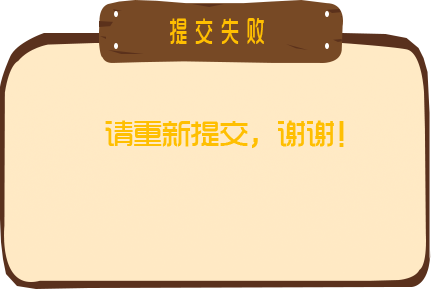
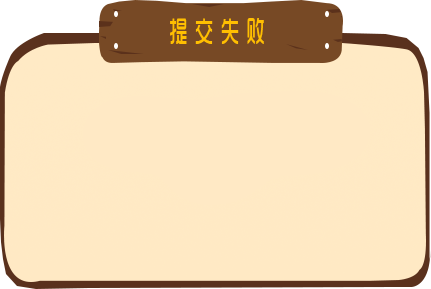
modify the synfx active.html by peng

Changed region(s): [[0.2413, 0.4048, 0.6032, 0.5294], [0.6334, 0.4048, 0.8144, 0.5294]]

diff --git a/symfx/active.html b/symfx/active.html
@@ -136,8 +136,10 @@
 
       </div>
       <div class="mask-none" id="inner-box">
-          <div class="pop-box-btn">
+          <div class="pop-box-text">
 
+          </div>
+          <div class="pop-box-btn">
           </div>
       </div>
     </div>
@@ -325,18 +327,32 @@ $(function(){
           if(data == 0){
             //提交成功
             showrigmask();
-          }else{
+          }else if(data == 1){
             //提交失败
             showerrmask();
+          }else if(data == 2){
+            showerrmask();
+            $('.pop-box-text').text('手机号码格式有误，请重新填写！');
+          }else if(data == 3){
+            showerrmask();
+            $('.pop-box-text').text('手机号码长度有误，请重新填写！');
+          }else if(data == 4){
+            showerrmask();
+            $('.pop-box-text').text('手机号码为空，请重新填写！');
+          }else if(data == 5){
+            showerrmask();
+            $('.pop-box-text').text('建议为空，请填写后再提交！');
           }
         },
         error: function(){
           //服务器故障，与服务器连接失败。
           showerrmask();
+          $('.pop-box-text').text('与服务器连接中断，请稍后再试！');
         }
       })
     }else{
       showerrmask();
+      $('.pop-box-text').text('信息为空或格式不符合，请重新填写！');
     }
   }
 

diff --git a/symfx/css/app.css b/symfx/css/app.css
@@ -3158,11 +3158,19 @@ a:hover {
   width: 100px;
   height: 42px;
   background: url(../images/active/pop-box.png) no-repeat center center;
-  position: relative;
+  position: absolute;
   top: 216px;
   left: 178PX;
   cursor: pointer;
 }
 .pop-box-btn:hover {
   background: url(../images/active/pop-box-aft.png) no-repeat center center;
+}
+.pop-box-text {
+  width:408px;
+  height: 80px;
+  margin: 100px 0 0 10px;
+  font-size: 24px;
+  color: #ffbf01;
+  text-align: center;
 }
